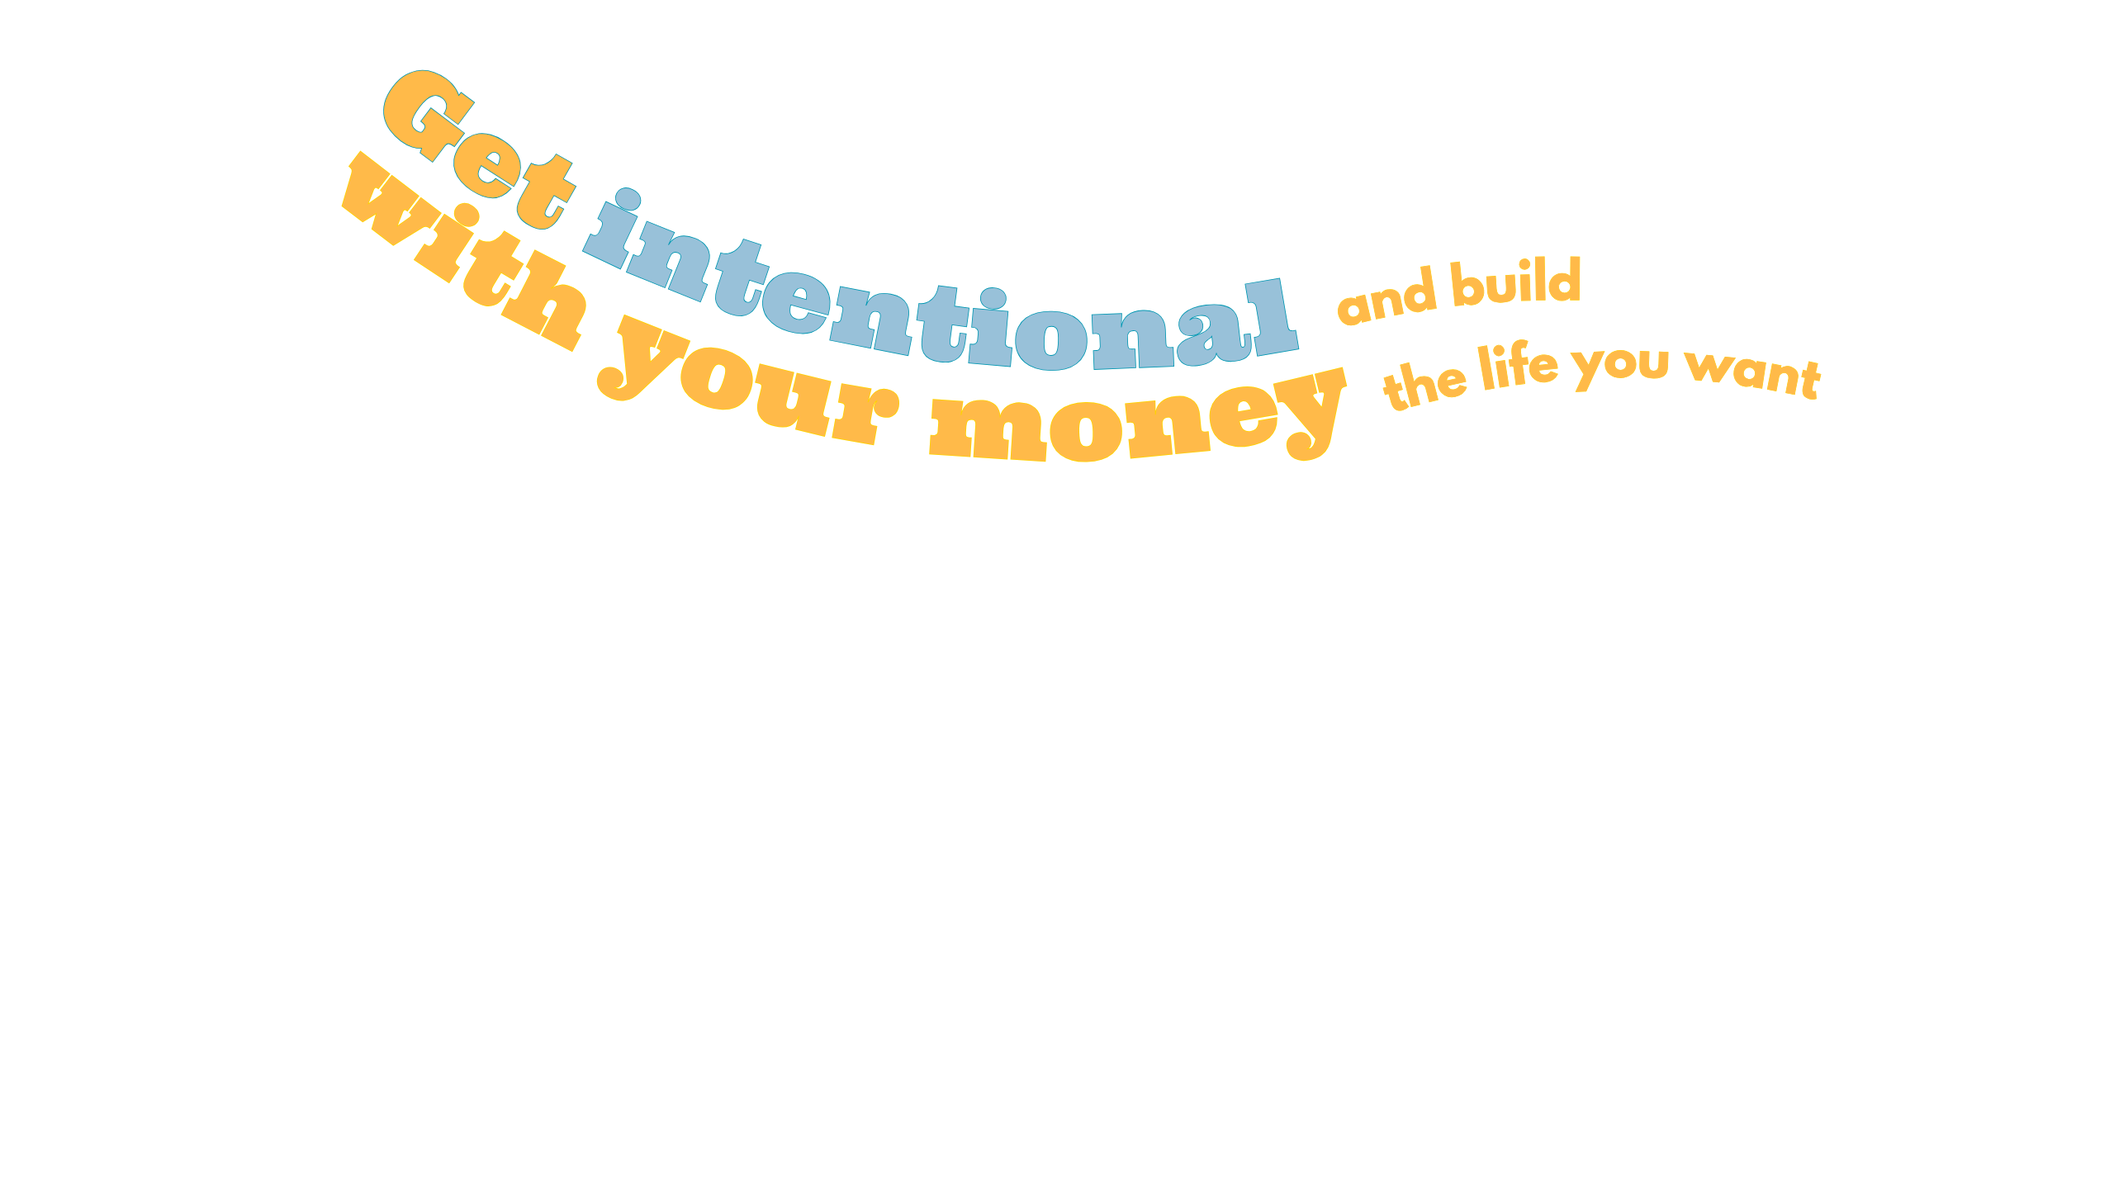
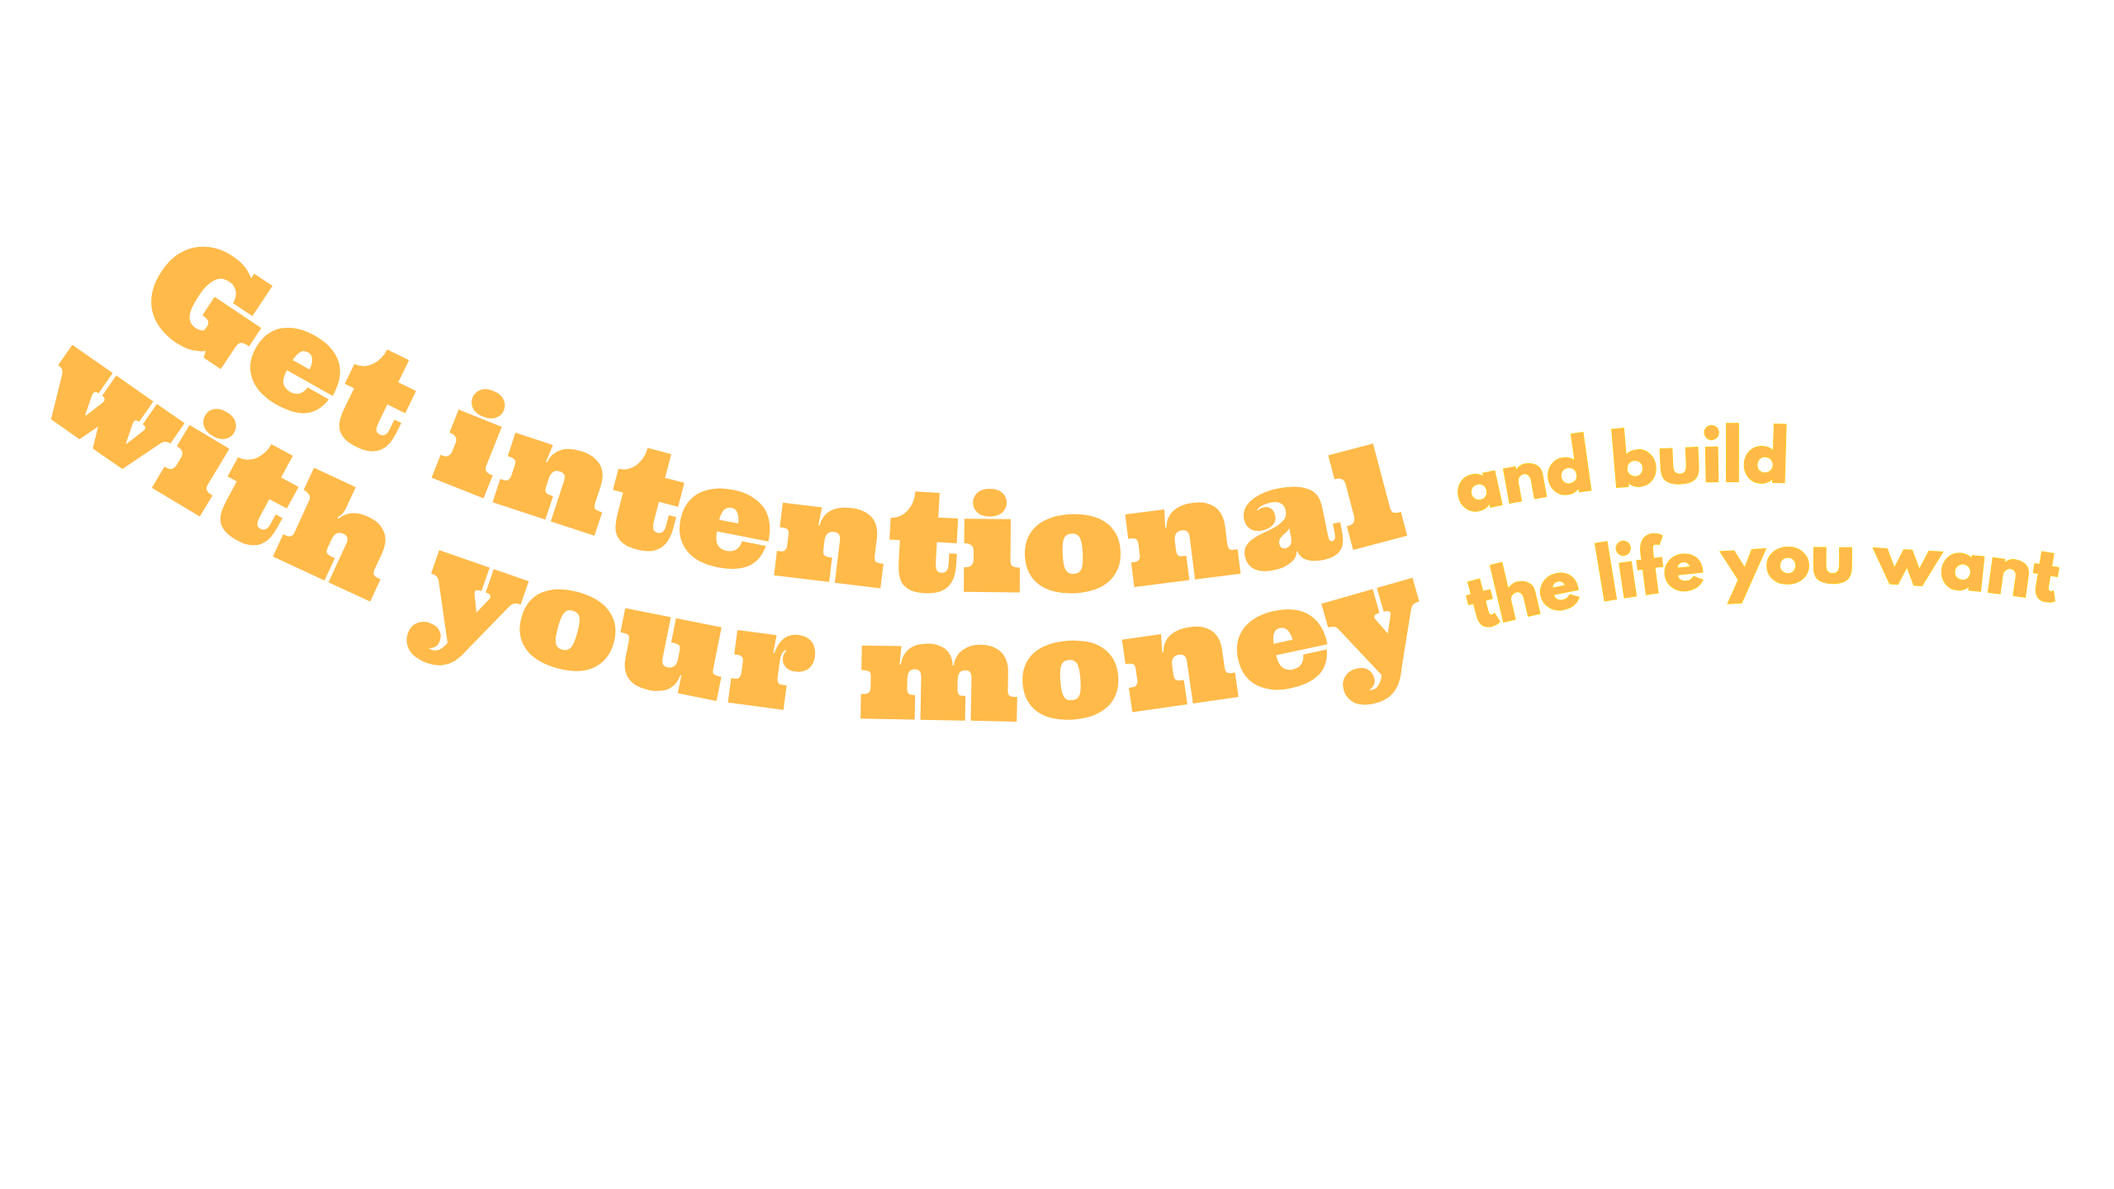
Retheme site with CSS variable palette system + inline SVG hero text
- Palette now controlled by 5 CSS variables in :root — swap colors by editing one block
- Hero text switched from baked PNG to inline SVG so text color follows --c-accent automatically
- Hero background replaced with solid --c-hero color; collage fills viewport with fade mask
- New color scheme: cornflower blue hero, true orange accents, yellow-grass nav, cream sections
- All section backgrounds, cards, and buttons updated to new tokens

Changed region(s): [[0.0, 0.0625, 0.9688, 0.625]]

diff --git a/index.html b/index.html
@@ -3,7 +3,7 @@
 <head>
   <meta charset="UTF-8" />
   <meta name="viewport" content="width=device-width, initial-scale=1.0" />
-  <title>Lauren Mitchell · Certified YNAB Coach</title>
+  <title>Lauren Mitchell Certified YNAB Coach</title>
   <link rel="preconnect" href="https://fonts.googleapis.com" />
   <link rel="preconnect" href="https://fonts.gstatic.com" crossorigin />
   <link href="https://fonts.googleapis.com/css2?family=Space+Grotesk:wght@400;500;700&display=swap" rel="stylesheet" />
@@ -13,11 +13,14 @@
       theme: {
         extend: {
           colors: {
-            'shadow-grey':     '#211a1e',
-            'sunflower-gold':  '#ffba49',
-            'powder-blue':     '#98c1d9',
-            'vibrant-coral':   '#ed6a5e',
-            'violet-twilight': '#6153cc',
+            /* All colours resolve from the CSS variables in :root below.
+               To retheme the site, only edit the :root block — nothing here. */
+            'shadow-grey':     'rgb(var(--c-primary)   / <alpha-value>)',
+            'sunflower-gold':  'rgb(var(--c-accent)    / <alpha-value>)',
+            'powder-blue':     'rgb(var(--c-hero)      / <alpha-value>)',
+            'vibrant-coral':   'rgb(var(--c-accent)    / <alpha-value>)',
+            'violet-twilight': 'rgb(var(--c-secondary) / <alpha-value>)',
+            'butter-stick':    'rgb(var(--c-bg)        / <alpha-value>)',
           },
           fontFamily: {
             sans: ['Space Grotesk', 'sans-serif'],
@@ -27,6 +30,18 @@
     }
   </script>
   <style>
+    /* ══════════════════════════════════════════════════
+       PALETTE — edit only these 5 lines to retheme the
+       entire site. Values are R G B (space-separated).
+    ══════════════════════════════════════════════════ */
+    :root {
+      --c-primary:    43 29 14;      /* #2B1D0E  nav, footer, dark text */
+      --c-accent:     235 87 41;     /* #EB5729  buttons, highlights    */
+      --c-hero:       147 176 236;   /* #93B0EC  hero background        */
+      --c-secondary:  206 213 100;   /* #CED564  about section          */
+      --c-bg:         250 240 230;   /* #FAF0E6  page section bg        */
+    }
+
     html { scroll-behavior: smooth; }
 
     /* ── Grain texture overlay ─────────────────────── */
@@ -63,11 +78,10 @@
     }
 
     @media (min-width: 768px) {
-      /* Shift text up by ~6vw to remove the blank top margin
-         baked into the PNG, putting words near the top of the hero */
-      #hl-txt { background-position: left -6vw; }
-      /* Pull collage up so more photos are visible below the text */
-      #hl-img { top: 20vw; }
+      /* Shift SVG text up to remove blank top margin baked into the artwork */
+      #hl-txt svg { top: -6vw; }
+      /* Overlap collage with text zone so photos fill more of the viewport */
+      #hl-img { top: 0; }
     }
 
     /* Shared layer base */
@@ -81,44 +95,45 @@
       background-repeat: no-repeat;
     }
 
-    /* Layer 1 — dark grain background */
+    /* Layer 1 — solid colour background */
     #hl-bg {
-      background-image: url('hero_background.png');
-      /* Slightly oversize so parallax movement never shows a gap */
-      inset: -6%;
-      width: 112%;
-      height: 112%;
+      background-color: rgb(var(--c-hero));
       z-index: 1;
     }
 
-    /* Layer 2 — polaroid / folder collage
-       top: 28vw tracks the text arc's proportional height so the
-       collage starts just below the letters at every screen size.
-       On mobile this means big, dramatic, edge-to-edge photos. */
+    /* Layer 2 — polaroid / folder collage */
     #hl-img {
-      top: 28vw;     /* overrides hero-layer inset: 0 */
+      top: 20vw;     /* mobile: below text arc */
       height: auto;  /* overrides hero-layer height: 100% */
       background-image: url('heroimage.png');
-      background-size: cover;
-      background-position: center 30%;
+      background-size: 100% auto;
+      background-position: center bottom;
       z-index: 2;
+      /* Fade the top edge so the folder background doesn't bleed into the text */
+      -webkit-mask-image: linear-gradient(to bottom, transparent 0%, black 28%);
+      mask-image: linear-gradient(to bottom, transparent 0%, black 28%);
     }
 
-    /* Layer 3 — curved typography (transparent PNG)
-       100% auto = full viewport width, no horizontal clipping.
-       Works on mobile and wide screens alike. */
+    /* Layer 3 — curved typography (inline SVG, color-themeable) */
     #hl-txt {
-      background-image: url('hero_text_separated.png');
-      background-size: 100% auto;
-      background-position: left top;
       z-index: 3;
     }
+    #hl-txt svg {
+      position: absolute;
+      top: 0;
+      left: 0;
+      width: 100%;
+      height: auto;
+    }
+    /* Map the two SVG fill colors to palette variables */
+    #hl-txt [fill="#eb5729"] { fill: rgb(var(--c-accent)) !important; }
+    #hl-txt [fill="#ffd200"] { fill: rgb(var(--c-accent-2, var(--c-accent))) !important; }
 
     /* Scroll-out dark veil */
     #hl-fade {
       position: absolute;
       inset: 0;
-      background: #211a1e;
+      background: rgb(var(--c-hero));
       opacity: 0;
       pointer-events: none;
       z-index: 4;
@@ -178,7 +193,7 @@
     }
     .pain-card:hover {
       transform: translateY(-4px);
-      box-shadow: 0 12px 32px rgba(33,26,30,0.09);
+      box-shadow: 0 12px 32px rgb(var(--c-primary) / 0.09);
     }
 
     /* ── Reduced motion ───────────────────────────── */
@@ -190,18 +205,18 @@
     }
   </style>
 </head>
-<body class="bg-white text-shadow-grey font-sans">
+<body class="bg-butter-stick text-shadow-grey font-sans">
 
   <!-- ── Nav ────────────────────────────────────────── -->
-  <nav class="fixed top-0 left-0 right-0 z-50 bg-shadow-grey px-6 md:px-10 h-16 flex items-center justify-between">
-    <span class="text-white font-bold text-sm uppercase tracking-widest">
-      Lauren Mitchell
-      <span class="text-white/70 font-normal text-xs normal-case tracking-normal ml-2 hidden sm:inline">· Certified YNAB Coach</span>
+  <nav class="fixed top-0 left-0 right-0 z-50 bg-violet-twilight px-6 md:px-10 h-16 flex items-center justify-between">
+    <span class="text-shadow-grey font-bold text-sm uppercase tracking-widest">
+      Lauren Mitchell *
+      <span class="text-shadow-grey/60 font-normal text-xs normal-case tracking-normal ml-2 hidden sm:inline">Certified YNAB Coach</span>
     </span>
     <div class="flex items-center gap-6 md:gap-8">
-      <a href="#about"    class="text-white/60 hover:text-white text-xs uppercase tracking-widest transition-colors hidden md:block">About Me</a>
-      <a href="#packages" class="text-white/60 hover:text-white text-xs uppercase tracking-widest transition-colors hidden md:block">Packages</a>
-      <a href="#contact"  class="bg-sunflower-gold text-shadow-grey font-bold text-xs uppercase tracking-widest px-5 py-2 hover:bg-vibrant-coral hover:text-white transition-colors">Contact</a>
+      <a href="#about"    class="text-shadow-grey/60 hover:text-shadow-grey text-xs uppercase tracking-widest transition-colors hidden md:block">About Me</a>
+      <a href="#packages" class="text-shadow-grey/60 hover:text-shadow-grey text-xs uppercase tracking-widest transition-colors hidden md:block">Packages</a>
+      <a href="#contact"  class="bg-sunflower-gold text-white font-bold text-xs uppercase tracking-widest px-5 py-2 hover:bg-shadow-grey hover:text-butter-stick transition-colors">Contact</a>
     </div>
   </nav>
 
@@ -226,9 +241,9 @@
   </section>
 
   <!-- ── Pain points ────────────────────────────────── -->
-  <section class="bg-white px-6 md:px-12 py-24">
+  <section class="bg-butter-stick px-6 md:px-12 py-24">
     <div class="max-w-5xl mx-auto">
-      <h2 class="reveal-left text-4xl md:text-5xl font-bold uppercase mb-3">We've all been<br/>there before</h2>
+      <h2 class="reveal-left text-4xl md:text-5xl font-bold uppercase mb-3">I've been there before</h2>
       <p class="reveal d1 text-shadow-grey/40 text-lg mb-14 max-w-xl">If you identify wih any of these, you're in the right place.</p>
       <div class="grid grid-cols-1 md:grid-cols-2 lg:grid-cols-3 gap-3">
 
@@ -239,17 +254,17 @@
 
         <div class="pain-card reveal d2 border-2 border-shadow-grey/8 rounded-xl p-7 hover:border-powder-blue">
           <p class="font-bold text-lg mb-2">Blindsided by one-off expenses</p>
-          <p class="text-shadow-grey/50 text-sm leading-relaxed">Car registration. A wedding gift. A flight home. Every "surprise" sends you into a spiral.</p>
+          <p class="text-shadow-grey/50 text-sm leading-relaxed">Car registration. A wedding gift. A flight home. Every "surprise" resets your savings.</p>
         </div>
 
         <div class="pain-card reveal d3 border-2 border-shadow-grey/8 rounded-xl p-7 hover:border-sunflower-gold">
           <p class="font-bold text-lg mb-2">Spending money before you really have it</p>
-          <p class="text-shadow-grey/50 text-sm leading-relaxed">You're swiping the card and hoping it works out. Spoiler: it's stressful.</p>
+          <p class="text-shadow-grey/50 text-sm leading-relaxed">You're swiping and hoping it works out. Paying off the card is always a game of catch up.</p>
         </div>
 
         <div class="pain-card reveal d4 border-2 border-shadow-grey/8 rounded-xl p-7 hover:border-violet-twilight">
           <p class="font-bold text-lg mb-2">Tried YNAB but couldn't figure it out</p>
-          <p class="text-shadow-grey/50 text-sm leading-relaxed">You downloaded the app, poked around, and gave up. YNAB can feel overwhelming alone.</p>
+          <p class="text-shadow-grey/50 text-sm leading-relaxed">You downloaded the app, poked around, and gave up. (I started and stoped twice before it stuck!)</p>
         </div>
 
         <div class="pain-card reveal d5 border-2 border-shadow-grey/8 rounded-xl p-7 hover:border-vibrant-coral">
@@ -259,7 +274,7 @@
 
         <div class="pain-card reveal d6 border-2 border-shadow-grey/8 rounded-xl p-7 hover:border-powder-blue">
           <p class="font-bold text-lg mb-2">Big goals with no clear path</p>
-          <p class="text-shadow-grey/50 text-sm leading-relaxed">Travel. A house. Paying off debt. You know what you want. You just don't know how to get there.</p>
+          <p class="text-shadow-grey/50 text-sm leading-relaxed">Long term travel. A house. Paying off debt. You know what you want. You just don't know how you're going to get there.</p>
         </div>
 
       </div>
@@ -267,17 +282,17 @@
   </section>
 
   <!-- ── About ──────────────────────────────────────── -->
-  <section id="about" class="grain bg-shadow-grey px-6 md:px-12 py-24">
+  <section id="about" class="grain bg-violet-twilight px-6 md:px-12 py-24">
     <div class="max-w-5xl mx-auto grid md:grid-cols-2 gap-16 items-center">
       <div class="reveal-left">
-        <h2 class="text-5xl md:text-6xl font-bold uppercase text-white mb-8">Hi, I'm<br/>Lauren</h2>
-        <p class="text-white/70 text-lg leading-relaxed mb-5">
-          I'm a Certified YNAB Coach on a mission to help people stop stressing about money and start spending with intention so you can actually build the life you want.
+        <h2 class="text-5xl md:text-6xl font-bold uppercase text-shadow-grey mb-8">Hi, I'm<br/>Lauren</h2>
+        <p class="text-shadow-grey/70 text-lg leading-relaxed mb-5">
+          Certified YNAB Coach helping you break old money patterns with a system that sticks.
         </p>
-        <p class="text-white/50 text-base leading-relaxed mb-10">
-          I work with college students, young professionals, and couples who are tired of wondering where their money went and ready to make a real plan. No shame. No judgment. Just a system that works.
+        <p class="text-shadow-grey/60 text-base leading-relaxed mb-10">
+          We’ll look beyond the numbers, because money habits are shaped early. Hidden fears, expectations, and beliefs often drive how we spend. In our work together, we’ll explore those patterns and connect them to practical budgeting decisions inside YNAB, using the YNAB Method.<br/><br/>If you want structure and accountability, I’ll absolutely give you homework.
         </p>
-        <a href="#contact" class="inline-block bg-sunflower-gold text-shadow-grey font-bold uppercase tracking-widest px-8 py-4 hover:bg-vibrant-coral hover:text-white transition-colors text-sm">
+        <a href="#contact" class="inline-block bg-sunflower-gold text-white font-bold uppercase tracking-widest px-8 py-4 hover:bg-shadow-grey hover:text-butter-stick transition-colors text-sm">
           Let's Work Together
         </a>
       </div>
@@ -291,17 +306,17 @@
   </section>
 
   <!-- ── Packages ───────────────────────────────────── -->
-  <section id="packages" class="bg-white px-6 md:px-12 py-24">
+  <section id="packages" class="bg-butter-stick px-6 md:px-12 py-24">
     <div class="max-w-5xl mx-auto">
       <h2 class="reveal text-5xl md:text-6xl font-bold uppercase mb-3">Packages</h2>
-      <p class="reveal d1 text-shadow-grey/40 text-lg mb-14 max-w-xl">All sessions are $80/hour. Start with a free 30-minute intro call.</p>
+      <p class="reveal d1 text-shadow-grey/40 text-lg mb-14 max-w-xl">I have a flat hourly rate of $80/hour. <br/> All new clients start with a free 30-minute intro call.</p>
       <div class="grid md:grid-cols-3 gap-4">
 
         <div class="reveal d1 bg-shadow-grey rounded-2xl p-8 flex flex-col">
           <h3 class="text-sunflower-gold font-bold text-xl uppercase tracking-wide mb-1">Getting Started</h3>
           <p class="text-white/30 text-xs uppercase tracking-widest mb-6">3 sessions · $80/hour</p>
           <p class="text-white/60 text-sm leading-relaxed flex-1 mb-8">
-            New to YNAB? This is where to begin. Three focused sessions to get you set up, show you how the method works, and make sure it actually sticks.
+            New to YNAB? This is where to begin. I'd reccommend three focused sessions to get you set up, show you how the method works, and make sure it actually sticks.
           </p>
           <div class="border-t border-white/10 pt-6">
             <p class="text-white font-bold text-2xl">$240</p>
@@ -311,8 +326,7 @@
 
         <div class="reveal d2 bg-powder-blue rounded-2xl p-8 flex flex-col">
           <div class="flex justify-between items-start mb-1">
-            <h3 class="text-shadow-grey font-bold text-xl uppercase tracking-wide">Full Support</h3>
-            <span class="bg-shadow-grey text-sunflower-gold text-xs font-bold uppercase tracking-widest px-3 py-1 rounded-full shrink-0 ml-2">Popular</span>
+            <h3 class="text-shadow-grey font-bold text-xl uppercase tracking-wide">Ongoing Support</h3>
           </div>
           <p class="text-shadow-grey/40 text-xs uppercase tracking-widest mb-6">Ongoing · $80/hour</p>
           <p class="text-shadow-grey/70 text-sm leading-relaxed flex-1 mb-8">
@@ -328,7 +342,7 @@
           <h3 class="text-shadow-grey font-bold text-xl uppercase tracking-wide mb-1">Pick My Brain</h3>
           <p class="text-shadow-grey/30 text-xs uppercase tracking-widest mb-6">One-off · $80/hour</p>
           <p class="text-shadow-grey/60 text-sm leading-relaxed flex-1 mb-8">
-            Already using YNAB but need a quick gut-check? Book a single session to troubleshoot, fine-tune, or get unstuck. No ongoing commitment needed.
+            Already using YNAB but need a quick gut-check? Book a single session to troubleshoot, fine-tune, or get unstuck. No ongoing commitment needed, past clients welcome!
           </p>
           <div class="border-t border-shadow-grey/10 pt-6">
             <p class="text-shadow-grey font-bold text-2xl">$80/hr</p>
@@ -347,7 +361,7 @@
         Start with a free<br/>30-minute call
       </h2>
       <p class="reveal d1 text-white/80 text-lg mb-12 leading-relaxed">
-        Let's make sure it's a good fit for both of us. No pressure at all. Just a chance to chat and learn what your needs are when it comes to YNAB.
+        Let’s connect and see if this feels like a good fit. No pressure, just a space to talk through your goals with YNAB.
       </p>
       <a href="mailto:laurenynabcoach@gmail.com"
          class="reveal d2 inline-block bg-shadow-grey text-white font-bold uppercase tracking-widest px-10 py-5 rounded-full text-sm hover:bg-sunflower-gold hover:text-shadow-grey transition-colors">
@@ -357,7 +371,7 @@
   </section>
 
   <!-- ── Contact ────────────────────────────────────── -->
-  <section id="contact" class="bg-white px-6 md:px-12 py-24">
+  <section id="contact" class="bg-butter-stick px-6 md:px-12 py-24">
     <div class="max-w-5xl mx-auto flex flex-col md:flex-row md:items-center md:justify-between gap-8">
       <h2 class="reveal-left text-5xl md:text-6xl font-bold uppercase shrink-0">Get in touch</h2>
       <a href="mailto:laurenynabcoach@gmail.com"
@@ -412,10 +426,6 @@
           if (y <= heroH * 1.4) {
 
             if (isDesktop) {
-              /* BG: shift background-position (gap-safe, no clip issues) */
-              hlBg.style.backgroundPositionY =
-                'calc(50% + ' + (y * 0.12).toFixed(1) + 'px)';
-
               /* Collage: drifts downward as user scrolls (recedes) */
               hlImg.style.transform =
                 'translateY(' + (y * 0.22).toFixed(1) + 'px)';
@@ -465,6 +475,14 @@
       revealEls.forEach(function (el) { el.classList.add('in'); });
     }
   })();
+
+  /* ── Inject hero text SVG inline so CSS can control fill colours ── */
+  fetch('hero_text.svg')
+    .then(function(r) { return r.text(); })
+    .then(function(svg) {
+      var el = document.getElementById('hl-txt');
+      el.innerHTML = svg;
+    });
   </script>
 
 </body>
